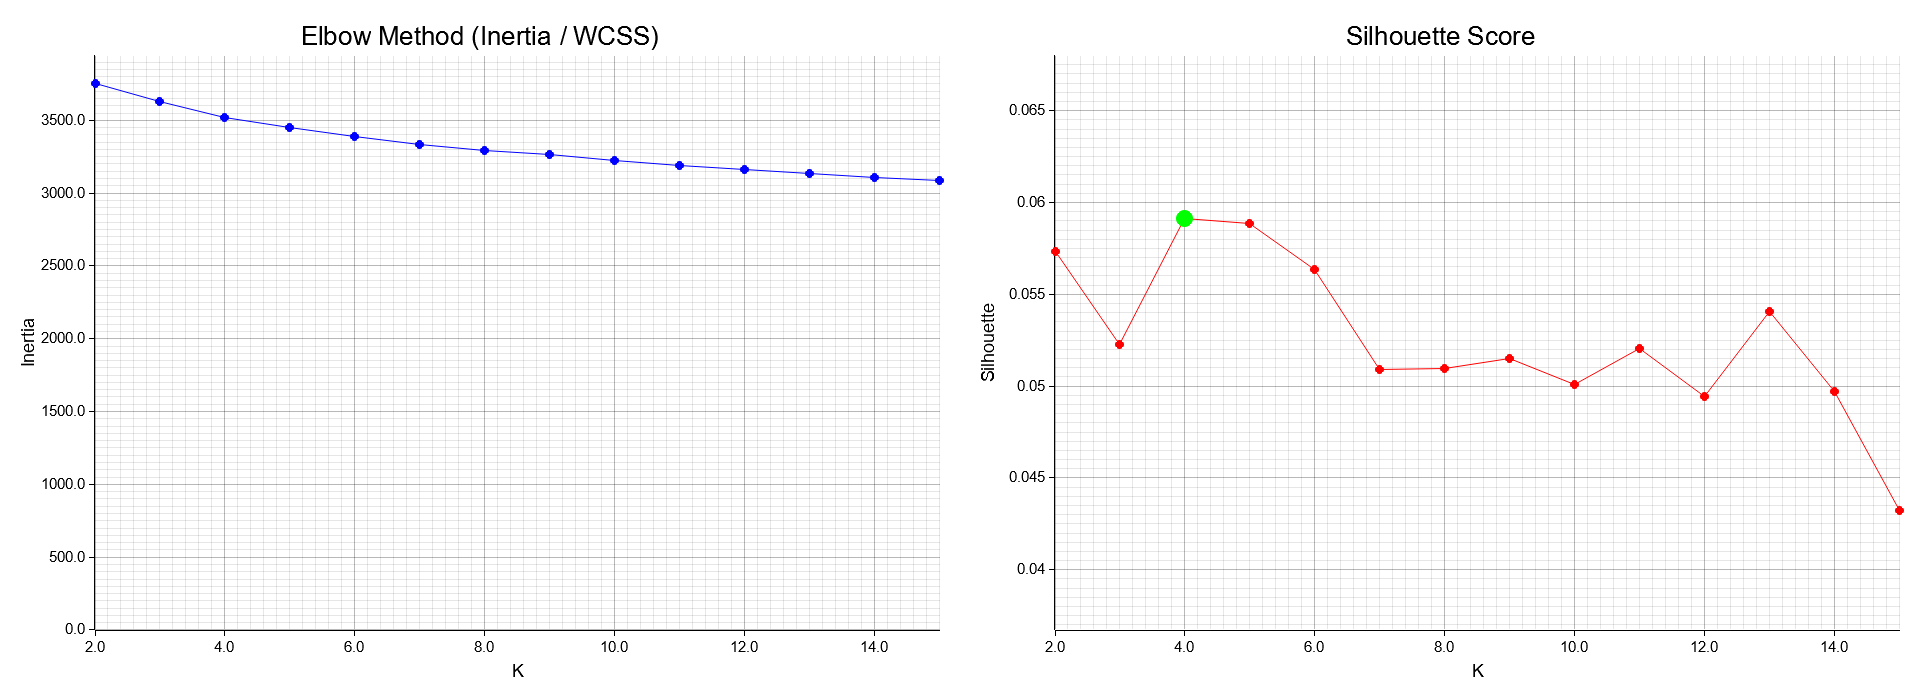
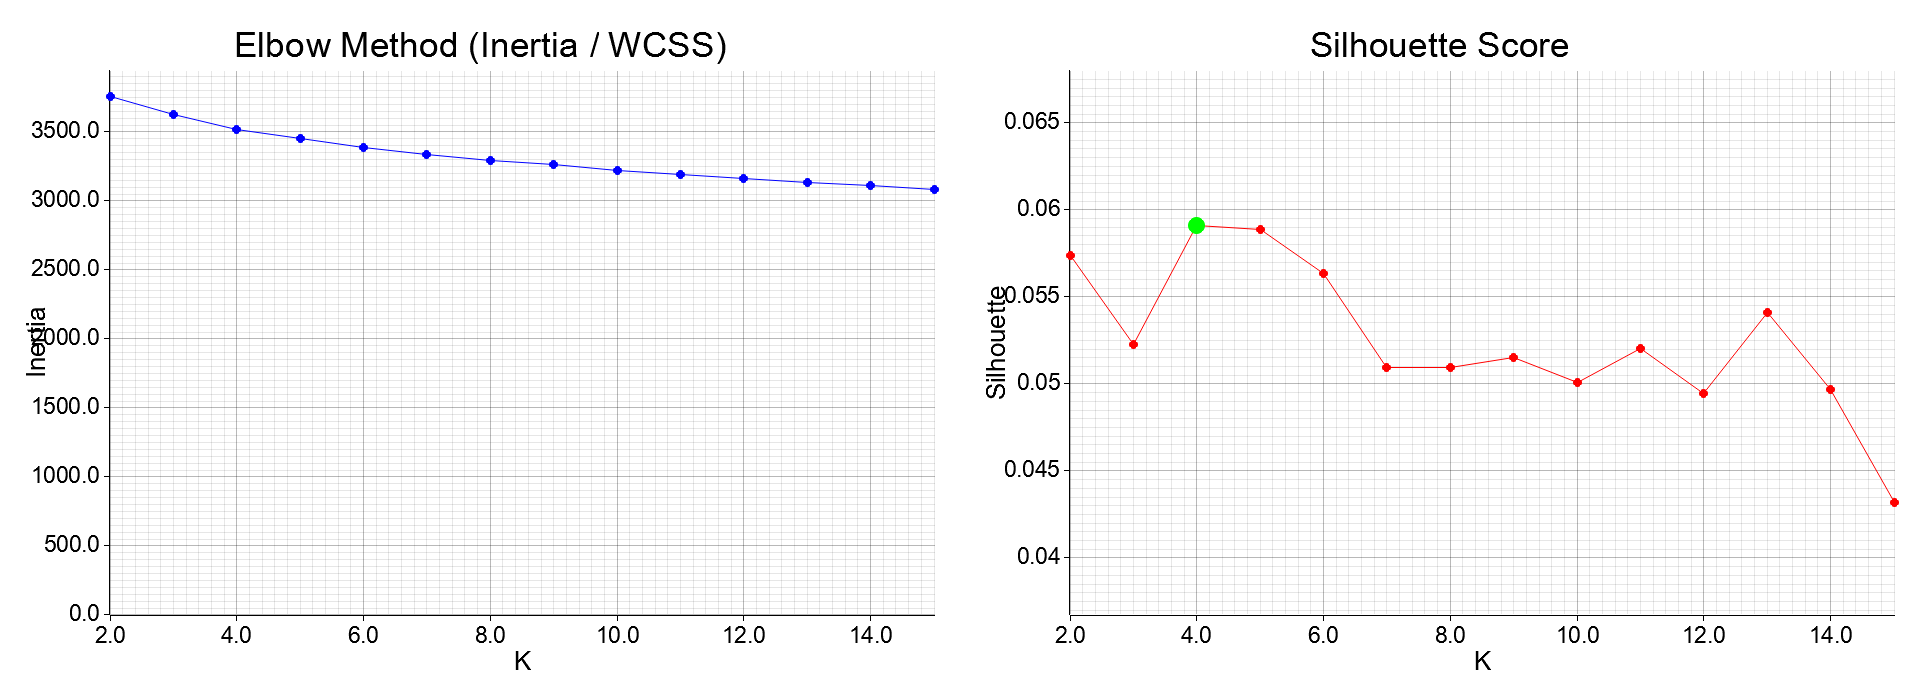
plots+css: much larger fonts for mobile, responsive layout
Rust plots: title 32->44, ticks 18->28, axis 22->32,
legend 24->34, points 3->4px, markers 7->9px.
CSS: mobile media query (100vw images, no margins),
plot-full max-height 85vh.

Changed region(s): [[0.0, 0.03, 1.0, 0.96], [0.5312, 0.75, 1.0, 0.96], [0.125, 0.03, 0.4062, 0.09]]

diff --git a/docs/index.html b/docs/index.html
@@ -62,7 +62,7 @@
   .reveal .tiny { font-size: 0.5em; color: #888; }
   .reveal img.plot { max-height: 380px; border-radius: 6px; box-shadow: 0 4px 12px rgba(0,0,0,0.1); }
   .reveal img.plot-full {
-    max-height: 660px;
+    max-height: 85vh;
     max-width: 95%;
     border-radius: 8px;
     box-shadow: 0 6px 20px rgba(0,0,0,0.12);
@@ -88,9 +88,10 @@
   .badge-rust { background: #fde68a; color: #92400e; }
   .badge-clip { background: #dbeafe; color: #1e40af; }
   .badge-k { background: #dcfce7; color: #166534; }
-  .fig-slide { text-align: center; }
+  .fig-slide { text-align: center; padding: 0 !important; }
   .fig-slide h3 { font-size: 1.15em; margin-bottom: 0.3em; color: #555; font-weight: 400; }
-  .fig-slide p.caption { font-size: 0.85em; color: #888; margin-top: 0.3em; }
+  .fig-slide p.caption { font-size: 0.85em; padding: 0 0.5em; color: #888; margin-top: 0.3em; }
+/* Mobile-first responsive */  @media (max-width: 768px) {    .reveal img.plot-full {      max-height: none !important;      max-width: 100vw !important;      width: 100vw !important;      margin-left: calc(-50vw + 50%) !important;      border-radius: 0;      box-shadow: none;    }    .reveal img.plot {      max-height: none !important;      max-width: 95vw !important;    }    .fig-slide {      margin: 0 !important;      padding: 0 !important;    }    .fig-slide p.caption {      font-size: 0.7em !important;      padding: 0.3em 1em !important;    }  }
 </style>
 </head>
 <body>

diff --git a/projeto-1/output/presentation.html b/projeto-1/output/presentation.html
@@ -62,7 +62,7 @@
   .reveal .tiny { font-size: 0.5em; color: #888; }
   .reveal img.plot { max-height: 380px; border-radius: 6px; box-shadow: 0 4px 12px rgba(0,0,0,0.1); }
   .reveal img.plot-full {
-    max-height: 660px;
+    max-height: 85vh;
     max-width: 95%;
     border-radius: 8px;
     box-shadow: 0 6px 20px rgba(0,0,0,0.12);
@@ -88,9 +88,10 @@
   .badge-rust { background: #fde68a; color: #92400e; }
   .badge-clip { background: #dbeafe; color: #1e40af; }
   .badge-k { background: #dcfce7; color: #166534; }
-  .fig-slide { text-align: center; }
+  .fig-slide { text-align: center; padding: 0 !important; }
   .fig-slide h3 { font-size: 1.15em; margin-bottom: 0.3em; color: #555; font-weight: 400; }
-  .fig-slide p.caption { font-size: 0.85em; color: #888; margin-top: 0.3em; }
+  .fig-slide p.caption { font-size: 0.85em; padding: 0 0.5em; color: #888; margin-top: 0.3em; }
+/* Mobile-first responsive */  @media (max-width: 768px) {    .reveal img.plot-full {      max-height: none !important;      max-width: 100vw !important;      width: 100vw !important;      margin-left: calc(-50vw + 50%) !important;      border-radius: 0;      box-shadow: none;    }    .reveal img.plot {      max-height: none !important;      max-width: 95vw !important;    }    .fig-slide {      margin: 0 !important;      padding: 0 !important;    }    .fig-slide p.caption {      font-size: 0.7em !important;      padding: 0.3em 1em !important;    }  }
 </style>
 </head>
 <body>
